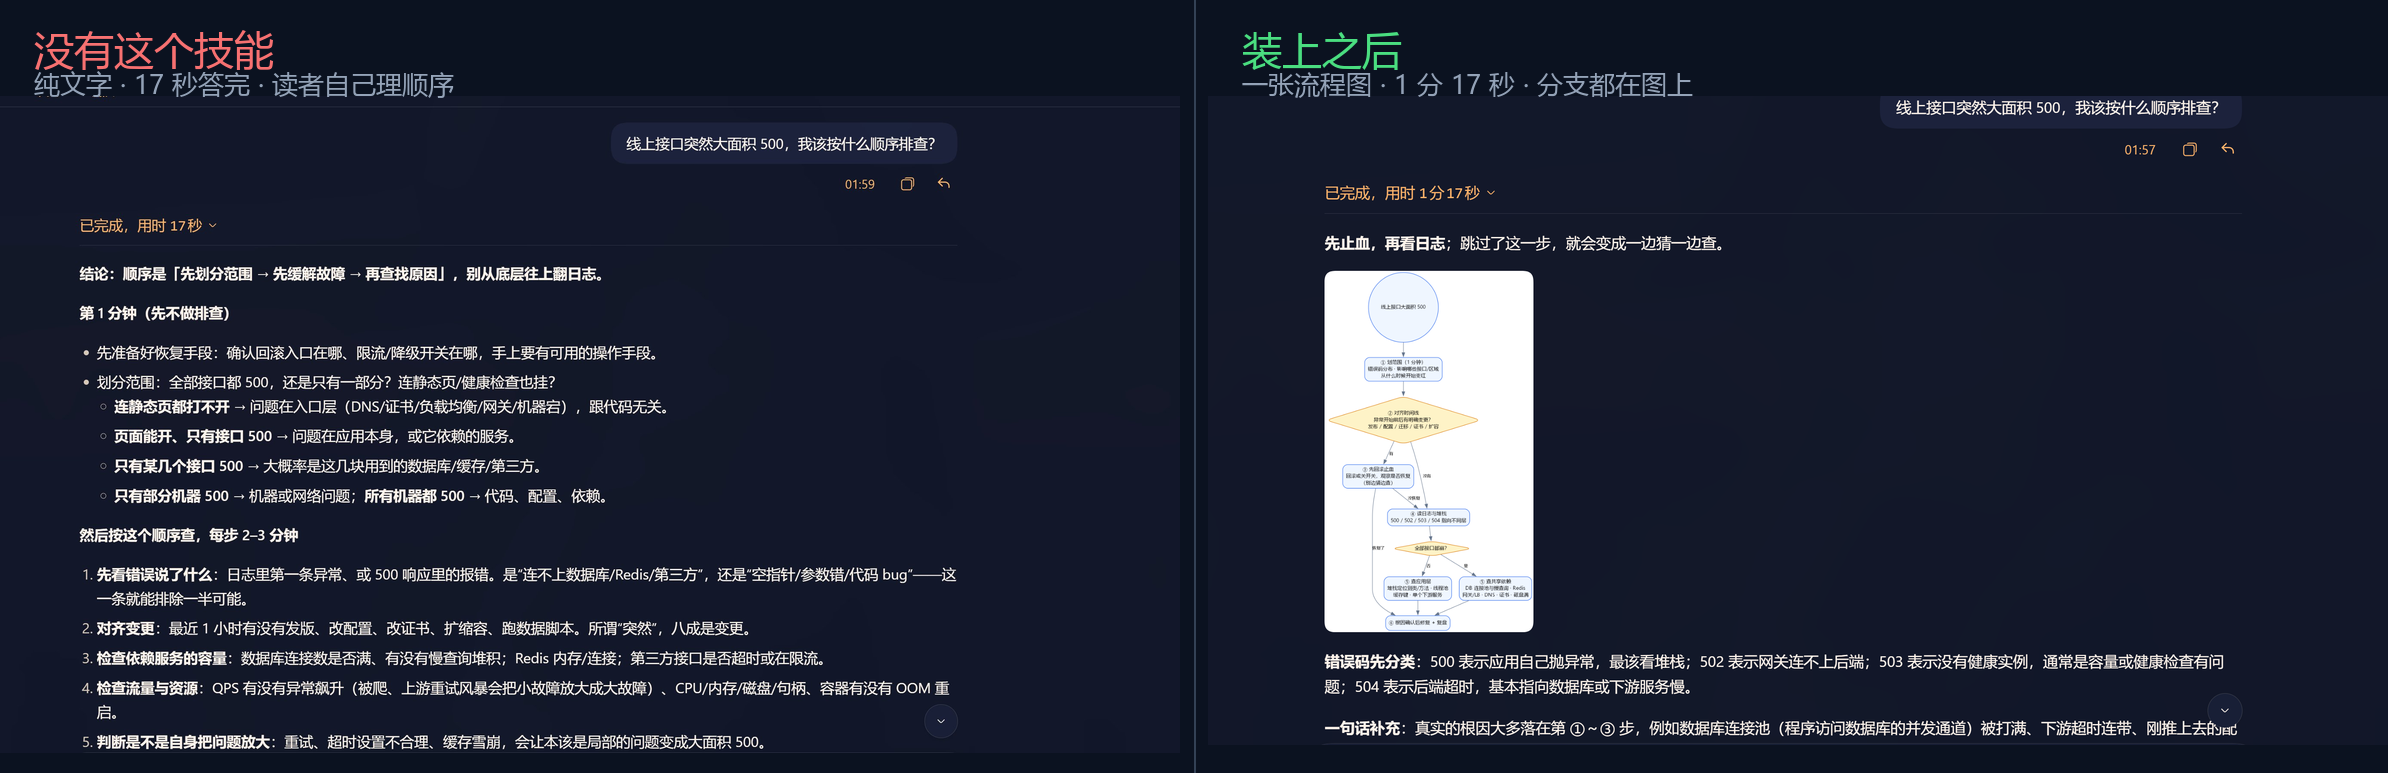
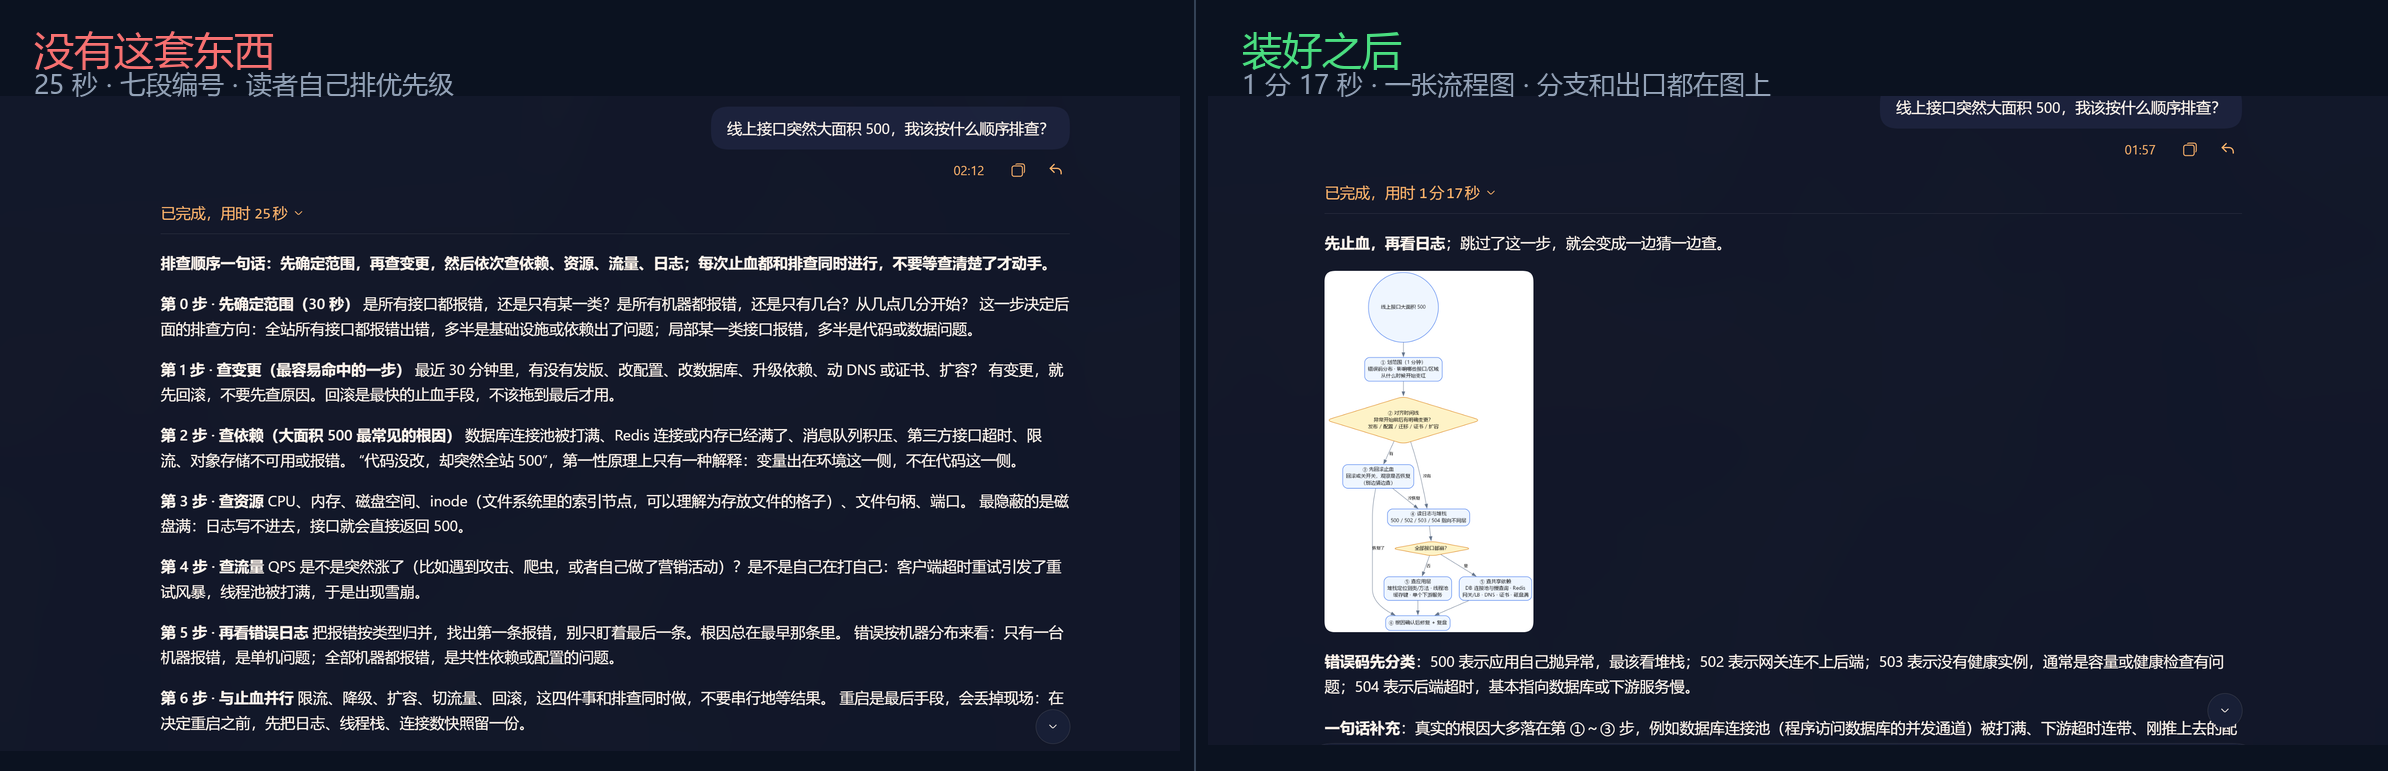
readme: honest before/after on the same preset (25s vs 1m17s)

diff --git a/README.md b/README.md
@@ -4,10 +4,13 @@
 
 ![同一个问题，两种回答](examples/chat/compare-before-after.png)
 
-左边是一个没装这个技能的 AI：五段编号清单，17 秒答完，读者自己理顺序。
-右边是装上之后：一张流程图，1 分 17 秒，分支、出口、下一步全在图上。
+同一句问题、同一个预设（标准模式）、同样的工作区，**唯一差别是这套东西在不在**。
 
-**它不改变 AI 会什么，改变的是它选择用哪种方式说。**
+左边：25 秒，七段编号，读者自己排优先级。
+右边：1 分 17 秒，一张流程图，分支、出口、下一步全在图上。
+
+**多花 52 秒在生成，省下的是读者反复读的时间。**
+它不改变 AI 会什么，改变的是它选择用哪种方式说。
 
 这不是一个"图表库"，是一个 **agent 技能**：装进你的 AI 助手的技能目录后，
 它遇到能用图讲清的事情时，会先过一遍判断，而不是先铺三段话。

diff --git a/SKILL.md b/SKILL.md
@@ -95,6 +95,19 @@ python scripts/viz.py formula --expr "E=mc^2" --out out/e.png
 
 ---
 
+## 图放哪
+
+默认输出到**会话工作区下的 `.viz/`**（不存在就建），文件名直接写主题：
+
+```bash
+--out .viz/500排查顺序.png
+```
+
+**不要为每张图新建一个日期目录**（`20261029_某问题/output/flow.png` 这种）。
+一轮对话画三张图，就攒出三个垃圾目录，谁也不清理。
+
+需要放到别处（项目文档、博客配图）时用 `--out` 显式指定路径，一次一张，别重复生成。
+
 ## 数据格式
 
 ### 数量类
